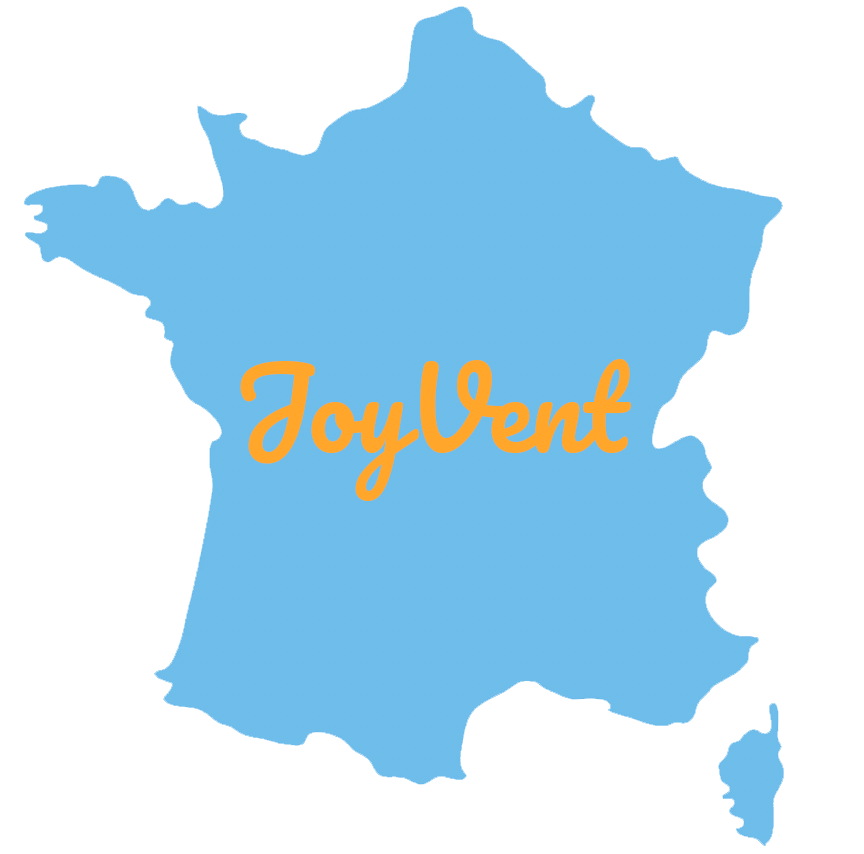
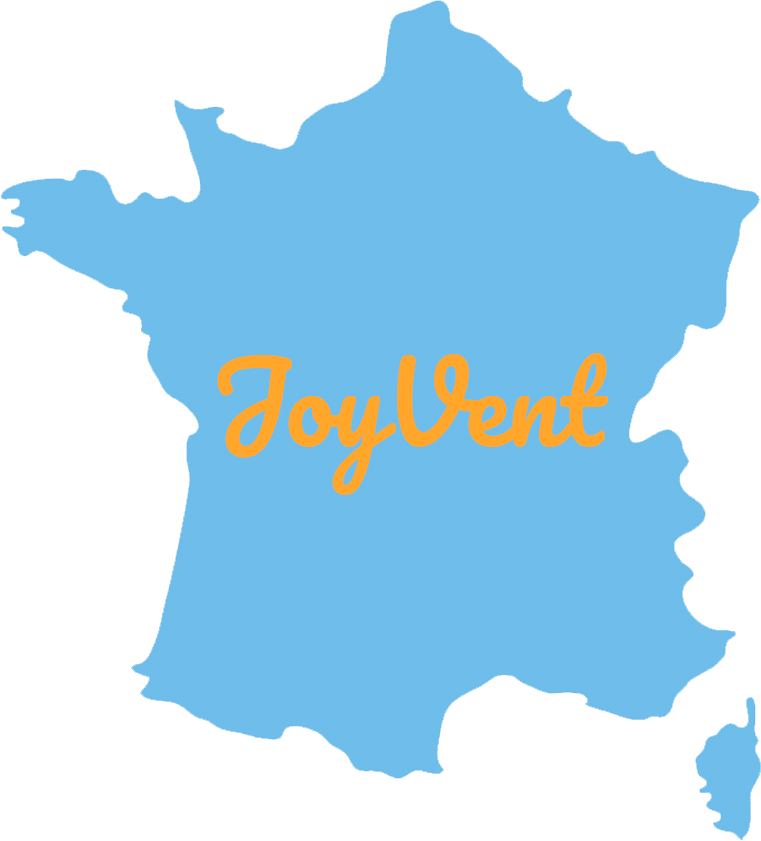
avant derniere update

diff --git a/src/views/HomeScreen.jsx b/src/views/HomeScreen.jsx
@@ -1,42 +1,42 @@
-import React from 'react'
-import { useEffect, useRef } from 'react';
-import "./HomeScreen.css"
+import React from "react";
+import { useEffect, useRef } from "react";
+import "./HomeScreen.css";
 
-import imgmap from "../assets/images/map.png"
+import imgmap from "../assets/images/map.png";
 
-import NewEvent from '../compenents/NewEvent'
+import NewEvent from "../compenents/NewEvent";
 
-import base from '../api/base'
+import base from "../api/base";
 
-
-
-<script src="https://kit.fontawesome.com/9e4f2f5cf7.js" crossorigin="anonymous"></script>
+<script
+  src="https://kit.fontawesome.com/9e4f2f5cf7.js"
+  crossorigin="anonymous"
+></script>;
 
 export default function HomeScreen() {
-
-
   useEffect(() => {
     base("tblzVrtPuEd6PpMEg")
-      .select({ view: 'Grid view' })
+      .select({ view: "Grid view" })
       .eachPage((records, fetchNextPage) => {
         fetchNextPage();
       });
   }, []);
 
-    const myRef = useRef(null)
- 
-    const executeScroll = () => myRef.current.scrollIntoView()
+  const myRef = useRef(null);
+
+  const executeScroll = () => myRef.current.scrollIntoView();
 
   return (
-    
     <>
-      <div id="but">
-          <img src={imgmap} alt="logo" width="600px"/>
-          <button id="newevent" onClick={executeScroll}>Create Your Event</button>
+      <div id="maincontainer">
+          <img id="logo" src={imgmap} alt="logo" width="550px" />
+        <button id="newevent" onClick={executeScroll}>
+          Create Your Event
+        </button>
       </div>
       <div id="formContainer" ref={myRef}>
         <NewEvent />
       </div>
     </>
-  )
+  );
 }

diff --git a/src/views/HomeScreen.css b/src/views/HomeScreen.css
@@ -10,17 +10,26 @@
   font-size: 20px;
   border: none;
   box-shadow: -7px 5px 17px 3px rgba(112, 112, 112, 0.84);
-  margin-top: 20%;
+}
+
+#maincontainer {
+  display:flex;
+  align-items: center;
 }
 
 #newevent:hover {
   background-color: rgba(79, 109, 122, 0.8);
 }
-#but {
-  display: flex;
-  justify-content: center;
-}
 
-img {
-  margin-top: 80px;
+
+
+@media (max-width: 800px) {
+
+  #logo {
+    display:none
+  }
+
+  #newevent {
+    display:none;
+  }
 }

diff --git a/src/compenents/NavBar.jsx b/src/compenents/NavBar.jsx
@@ -8,8 +8,6 @@ export default function Navigation() {
         <ul className="liste">
           <li className="items"><Link to="/">Home</Link></li>
           <li className="items"><Link to="/eventlist">Events List</Link></li>
-          <li className="items">Map</li>
-          <li className="items">Profil</li>
         </ul>
       </nav>
     </div>
